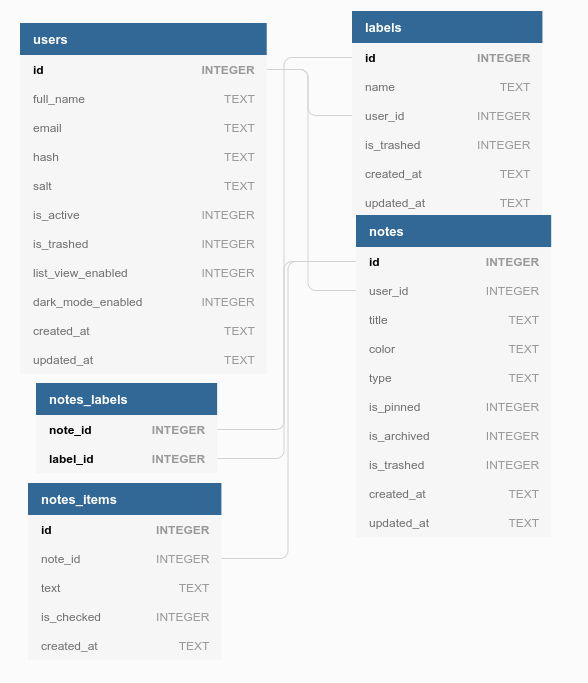
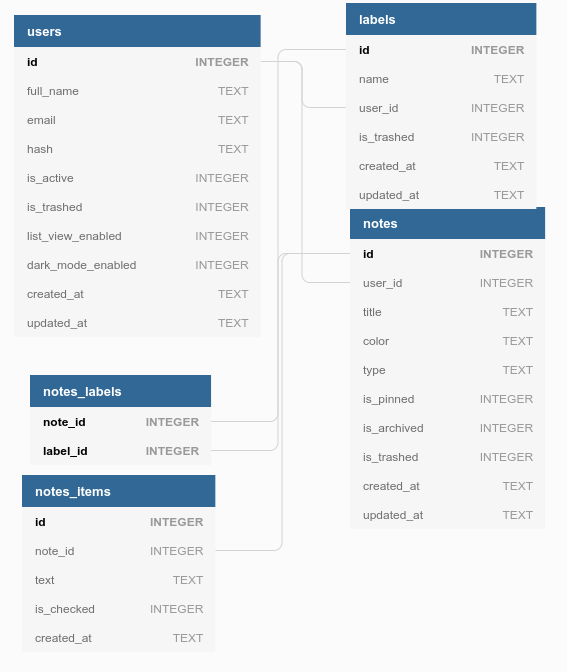
feat: user module continue :star:

diff --git a/app/user/repository/pgsql/user_test.go b/app/user/repository/pgsql/user_test.go
@@ -1,10 +1,11 @@
-package pgsql
+package pgsql_test
 
 import (
 	"context"
 	"github.com/DATA-DOG/go-sqlmock"
 	"github.com/stretchr/testify/assert"
 	"librenote/app/model"
+	userRepo "librenote/app/user/repository/pgsql"
 	"testing"
 	"time"
 )
@@ -14,7 +15,6 @@ func TestCreateUser(t *testing.T) {
 		FullName:  "Mr. Test",
 		Email:     "mrtest@example.com",
 		Hash:      "2o403w24o32043204weorjwe",
-		Salt:      "lksfo3r3343",
 		IsActive:  1,
 		UpdatedAt: time.Now().UTC(),
 	}
@@ -27,9 +27,9 @@ func TestCreateUser(t *testing.T) {
 
 	query := "INSERT INTO users"
 	prep := mock.ExpectPrepare(query)
-	prep.ExpectExec().WithArgs(u.FullName, u.Email, u.Hash, u.Salt, u.IsActive, u.UpdatedAt).WillReturnResult(sqlmock.NewResult(11, 1))
+	prep.ExpectExec().WithArgs(u.FullName, u.Email, u.Hash, u.IsActive, u.UpdatedAt).WillReturnResult(sqlmock.NewResult(11, 1))
 
-	ur := NewPgsqlUserRepository(db)
+	ur := userRepo.NewPgsqlUserRepository(db)
 	err = ur.CreateUser(context.TODO(), u)
 	assert.NoError(t, err)
 	assert.Equal(t, int32(11), u.ID)
@@ -46,21 +46,21 @@ func TestGetUser(t *testing.T) {
 
 	mockUser := model.User{
 		ID: 1, FullName: "Mr. Test", Email: "mrtest@example.com", Hash: "2o403w24o32043204weorjwe",
-		Salt: "lksfo3r3343", IsActive: 1, IsTrashed: 0, ListViewEnabled: 1, DarkModeEnabled: 0,
+		IsActive: 1, IsTrashed: 0, ListViewEnabled: 1, DarkModeEnabled: 0,
 		CreatedAt: time.Now().UTC(), UpdatedAt: time.Now().UTC(),
 	}
 
 	rows := sqlmock.NewRows([]string{
-		"id", "full_name", "email", "hash", "salt", "is_active", "is_trashed", "list_view_enabled", "dark_mode_enabled",
+		"id", "full_name", "email", "hash", "is_active", "is_trashed", "list_view_enabled", "dark_mode_enabled",
 		"created_at", "updated_at"}).
-		AddRow(mockUser.ID, mockUser.FullName, mockUser.Email, mockUser.Hash, mockUser.Salt,
+		AddRow(mockUser.ID, mockUser.FullName, mockUser.Email, mockUser.Hash,
 			mockUser.IsActive, mockUser.IsTrashed, mockUser.ListViewEnabled, mockUser.DarkModeEnabled,
 			mockUser.CreatedAt, mockUser.UpdatedAt)
 
-	query := "SELECT id, full_name, email, hash, salt, is_active, is_trashed, list_view_enabled, dark_mode_enabled, created_at, updated_at FROM users WHERE id = \\$1 LIMIT 1"
+	query := "SELECT id, full_name, email, hash, is_active, is_trashed, list_view_enabled, dark_mode_enabled, created_at, updated_at FROM users WHERE id = \\$1 LIMIT 1"
 	mock.ExpectQuery(query).WillReturnRows(rows)
 
-	ur := NewPgsqlUserRepository(db)
+	ur := userRepo.NewPgsqlUserRepository(db)
 
 	num := int32(1)
 	user, err := ur.GetUser(context.TODO(), num)
@@ -80,14 +80,14 @@ func TestGetUserByEmail(t *testing.T) {
 	defer db.Close()
 
 	rows := sqlmock.NewRows([]string{
-		"id", "full_name", "email", "hash", "salt", "is_active", "is_trashed", "list_view_enabled", "dark_mode_enabled",
+		"id", "full_name", "email", "hash", "is_active", "is_trashed", "list_view_enabled", "dark_mode_enabled",
 		"created_at", "updated_at"}).
-		AddRow(1, "Mr. Test", "mrtest@example.com", "skflrrweoiruowiu43", "sdkfsddkfj", 1, 0, 1, 1, time.Now().UTC(), time.Now().UTC())
+		AddRow(1, "Mr. Test", "mrtest@example.com", "skflrrweoiruowiu43", 1, 0, 1, 1, time.Now().UTC(), time.Now().UTC())
 
-	query := "SELECT id, full_name, email, hash, salt, is_active, is_trashed, list_view_enabled, dark_mode_enabled, created_at, updated_at FROM users WHERE email = \\$1 LIMIT 1"
+	query := "SELECT id, full_name, email, hash, is_active, is_trashed, list_view_enabled, dark_mode_enabled, created_at, updated_at FROM users WHERE email = \\$1 LIMIT 1"
 	mock.ExpectQuery(query).WillReturnRows(rows)
 
-	ur := NewPgsqlUserRepository(db)
+	ur := userRepo.NewPgsqlUserRepository(db)
 
 	email := "mrtest@example.com"
 	user, err := ur.GetUserByEmail(context.TODO(), email)
@@ -102,7 +102,6 @@ func TestUpdateUser(t *testing.T) {
 	u := &model.User{
 		ID:              12,
 		Hash:            "2o403w24o32043204weorjwe",
-		Salt:            "lksfo3r3343",
 		IsActive:        1,
 		IsTrashed:       0,
 		ListViewEnabled: 0,
@@ -116,12 +115,12 @@ func TestUpdateUser(t *testing.T) {
 	}
 	defer db.Close()
 
-	query := "UPDATE users SET hash = \\$2, salt = \\$3, is_active = \\$4, is_trashed = \\$5, list_view_enabled = \\$6, dark_mode_enabled = \\$7, updated_at = \\$8 WHERE id = \\$1"
+	query := "UPDATE users SET hash = \\$2, is_active = \\$3, is_trashed = \\$4, list_view_enabled = \\$5, dark_mode_enabled = \\$6, updated_at = \\$7 WHERE id = \\$1"
 	prep := mock.ExpectPrepare(query)
-	prep.ExpectExec().WithArgs(u.ID, u.Hash, u.Salt, u.IsActive, u.IsTrashed, u.ListViewEnabled, u.DarkModeEnabled, u.UpdatedAt).
+	prep.ExpectExec().WithArgs(u.ID, u.Hash, u.IsActive, u.IsTrashed, u.ListViewEnabled, u.DarkModeEnabled, u.UpdatedAt).
 		WillReturnResult(sqlmock.NewResult(12, 1))
 
-	ur := NewPgsqlUserRepository(db)
+	ur := userRepo.NewPgsqlUserRepository(db)
 
 	err = ur.UpdateUser(context.TODO(), u)
 	assert.NoError(t, err)

diff --git a/app/user/usecase/user.go b/app/user/usecase/user.go
@@ -1,30 +1,115 @@
 package usecase
 
 import (
+	"context"
+	"errors"
+	"github.com/sirupsen/logrus"
+	"golang.org/x/crypto/bcrypt"
 	"librenote/app/model"
 	"librenote/app/user/repository"
+	"time"
 )
 
 type UserUsecase interface {
-	Registration(user *model.User) error
+	Registration(c context.Context, m *model.User) (err error)
+	Login(c context.Context, email, password string) (user model.User, err error)
+	GetByID(c context.Context, id int32) (user model.User, err error)
+	Update(c context.Context, m *model.User, p Password) error
 }
 
 type userUsecase struct {
-	repo repository.UserRepository
+	repo           repository.UserRepository
+	contextTimeout time.Duration
 }
 
-func NewUserUsecase(repo repository.UserRepository) UserUsecase {
+func NewUserUsecase(repo repository.UserRepository, timeout time.Duration) UserUsecase {
 	return &userUsecase{
-		repo: repo,
+		repo:           repo,
+		contextTimeout: timeout,
 	}
 }
 
-func (u *userUsecase) Registration(user *model.User) error {
-	// check user already exists
+func (u *userUsecase) Registration(c context.Context, m *model.User) (err error) {
+	ctx, cancel := context.WithTimeout(c, u.contextTimeout)
+	defer cancel()
 
-	// generate password hash & salt
+	// check user already exists
+	existedUser, _ := u.repo.GetUserByEmail(ctx, m.Email)
+	if existedUser != (model.User{}) {
+		return errors.New("user already exist")
+	}
+
+	// generate password salted hash
+	hash, err := bcrypt.GenerateFromPassword([]byte(m.Hash), bcrypt.MinCost)
+	if err != nil {
+		return
+	}
+	m.Hash = string(hash)
 
 	// store
+	err = u.repo.CreateUser(ctx, m)
+	return
+}
 
-	return nil
+func (u *userUsecase) Login(c context.Context, email, password string) (user model.User, err error) {
+	ctx, cancel := context.WithTimeout(c, u.contextTimeout)
+	defer cancel()
+
+	user, err = u.repo.GetUserByEmail(ctx, email)
+	if err != nil {
+		logrus.Error(err)
+		return user, errors.New("user/password is incorrect")
+
+	}
+
+	// check password
+	err = bcrypt.CompareHashAndPassword([]byte(user.Hash), []byte(password))
+	if err != nil {
+		logrus.Error(err)
+		return user, errors.New("user/password is incorrect")
+	}
+
+	return user, nil
+}
+
+func (u *userUsecase) GetByID(c context.Context, id int32) (user model.User, err error) {
+	ctx, cancel := context.WithTimeout(c, u.contextTimeout)
+	defer cancel()
+
+	user, err = u.repo.GetUser(ctx, id)
+	if err != nil {
+		return
+	}
+	user.Hash = ""
+
+	return
+}
+
+type Password struct {
+	OldPassword string
+	NewPassword string
+	IsChanged   bool
+}
+
+func (u *userUsecase) Update(c context.Context, m *model.User, p Password) error {
+	ctx, cancel := context.WithTimeout(c, u.contextTimeout)
+	defer cancel()
+
+	if p.IsChanged {
+		// check old password is correct
+		err := bcrypt.CompareHashAndPassword([]byte(m.Hash), []byte(p.OldPassword))
+		if err != nil {
+			return errors.New("old password doesn't match")
+		}
+		// generate password salted hash
+		hash, err := bcrypt.GenerateFromPassword([]byte(p.NewPassword), bcrypt.MinCost)
+		if err != nil {
+			return err
+		}
+		m.Hash = string(hash)
+	}
+
+	// update
+	err := u.repo.UpdateUser(ctx, m)
+	return err
 }

diff --git a/app/user/repository/pgsql/user.go b/app/user/repository/pgsql/user.go
@@ -19,9 +19,9 @@ func NewPgsqlUserRepository(db *sql.DB) repository.UserRepository {
 }
 
 const createUser = `INSERT INTO users (
-  full_name, email, hash, salt, is_active, updated_at
+  full_name, email, hash, is_active, updated_at
 ) VALUES (
-  $1, $2, $3, $4, $5,  $6
+  $1, $2, $3, $4, $5
 )
 `
 
@@ -35,7 +35,6 @@ func (r *userRepository) CreateUser(ctx context.Context, user *model.User) error
 		user.FullName,
 		user.Email,
 		user.Hash,
-		user.Salt,
 		user.IsActive,
 		user.UpdatedAt,
 	)
@@ -52,7 +51,7 @@ func (r *userRepository) CreateUser(ctx context.Context, user *model.User) error
 	return nil
 }
 
-const getUser = `SELECT id, full_name, email, hash, salt, is_active, is_trashed, list_view_enabled, dark_mode_enabled,
+const getUser = `SELECT id, full_name, email, hash, is_active, is_trashed, list_view_enabled, dark_mode_enabled,
 created_at, updated_at FROM users WHERE id = $1 LIMIT 1
 `
 
@@ -64,7 +63,6 @@ func (r *userRepository) GetUser(ctx context.Context, id int32) (model.User, err
 		&i.FullName,
 		&i.Email,
 		&i.Hash,
-		&i.Salt,
 		&i.IsActive,
 		&i.IsTrashed,
 		&i.ListViewEnabled,
@@ -75,7 +73,7 @@ func (r *userRepository) GetUser(ctx context.Context, id int32) (model.User, err
 	return i, err
 }
 
-const getUserByEmail = `SELECT id, full_name, email, hash, salt, is_active, is_trashed, list_view_enabled, dark_mode_enabled,
+const getUserByEmail = `SELECT id, full_name, email, hash, is_active, is_trashed, list_view_enabled, dark_mode_enabled,
 created_at, updated_at FROM users WHERE email = $1 LIMIT 1
 `
 
@@ -87,7 +85,6 @@ func (r *userRepository) GetUserByEmail(ctx context.Context, email string) (mode
 		&i.FullName,
 		&i.Email,
 		&i.Hash,
-		&i.Salt,
 		&i.IsActive,
 		&i.IsTrashed,
 		&i.ListViewEnabled,
@@ -100,12 +97,11 @@ func (r *userRepository) GetUserByEmail(ctx context.Context, email string) (mode
 
 const updateUser = `UPDATE users
 SET hash = $2,
-salt = $3,
-is_active = $4,
-is_trashed = $5,
-list_view_enabled = $6,
-dark_mode_enabled = $7,
-updated_at = $8
+is_active = $3,
+is_trashed = $4,
+list_view_enabled = $5,
+dark_mode_enabled = $6,
+updated_at = $7
 WHERE id = $1
 `
 
@@ -117,7 +113,6 @@ func (r *userRepository) UpdateUser(ctx context.Context, user *model.User) error
 	res, err := stmt.ExecContext(ctx,
 		user.ID,
 		user.Hash,
-		user.Salt,
 		user.IsActive,
 		user.IsTrashed,
 		user.ListViewEnabled,

diff --git a/app/user/delivery/http/handler.go b/app/user/delivery/http/handler.go
@@ -1,0 +1,24 @@
+package http
+
+import "github.com/golang-jwt/jwt"
+
+type jwtCustomClaims struct {
+	ID int32 `json:"id"`
+	jwt.StandardClaims
+}
+
+//// generate token
+//jwtCfg := config.Get().Jwt
+//claims := &jwtCustomClaims{
+//user.ID,
+//jwt.StandardClaims{
+//ExpiresAt: time.Now().Add(jwtCfg.ExpireTime * time.Second).Unix(),
+//},
+//}
+//
+//unsignedToken := jwt.NewWithClaims(jwt.SigningMethodHS256, claims)
+//token, err = unsignedToken.SignedString([]byte(jwtCfg.SecretKey))
+//if err != nil {
+//return "", err
+//}
+//return token, err

diff --git a/app/model/user.go b/app/model/user.go
@@ -6,10 +6,8 @@ type User struct {
 	ID       int32  `json:"id"`
 	FullName string `json:"full_name"`
 	Email    string `json:"email"`
-	// password hash
-	Hash string `json:"hash"`
-	// password salt
-	Salt            string    `json:"salt"`
+	// password salted hash
+	Hash            string    `json:"hash"`
 	IsActive        int8      `json:"is_active"`
 	IsTrashed       int8      `json:"is_trashed"`
 	ListViewEnabled int8      `json:"list_view_enabled"`

diff --git a/app/user/usecase/user_test.go b/app/user/usecase/user_test.go
@@ -1,0 +1,7 @@
+package usecase_test
+
+import "testing"
+
+func TestRegistration(t *testing.T) {
+	t.Skip()
+}
